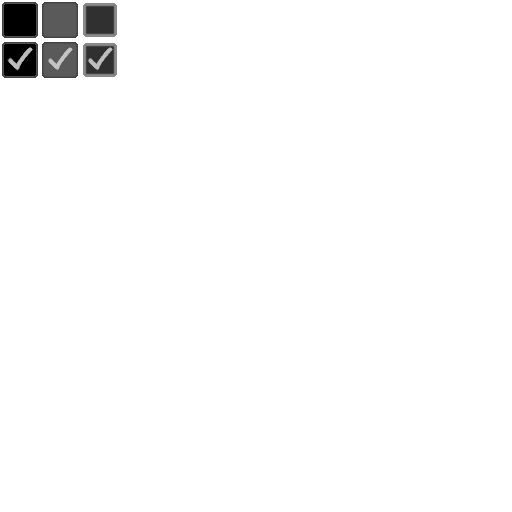
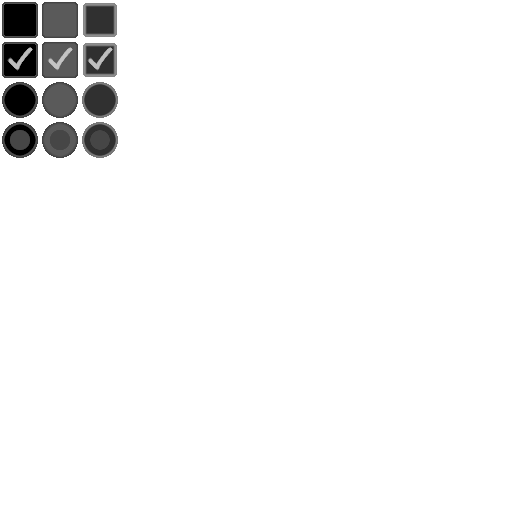
Add Radio CheckBoxBasic Skin

Changed region(s): [[0.0, 0.1562, 0.25, 0.3125]]

diff --git a/MiniatureTactics/src/game/scene/menu/SceneOptionsMenu.cpp b/MiniatureTactics/src/game/scene/menu/SceneOptionsMenu.cpp
@@ -81,7 +81,8 @@ namespace MTGame
 		scrollContainer->centerAlignSelf(5.0, 0.0);
 
 		const auto checkboxYOffset = 10.0;
-		fullscreenCheckbox = std::make_shared<CheckBoxBasic>();
+		const auto checkboxYGroupOffset = 20.0;
+		fullscreenCheckbox = std::make_shared<CheckBoxBasic>(GuiButton::RadioBoxBasic);
 		fullscreenCheckbox->setText("Fullscreen");
 		fullscreenCheckbox->toRightOf(scrollContainer, 5.0, -scrollContainer->getHalfHeight() + fullscreenCheckbox->getHalfHeight() + 5.0);
 		fullscreenCheckbox->setChecked(config.mode == MT::ScreenModes::Fullscreen);
@@ -89,7 +90,7 @@ namespace MTGame
 		fullscreenCheckbox->clickListener = weak_from_this();
 		add(fullscreenCheckbox);
 
-		fullscreenDesktopCheckbox = std::make_shared<CheckBoxBasic>();
+		fullscreenDesktopCheckbox = std::make_shared<CheckBoxBasic>(GuiButton::RadioBoxBasic);
 		fullscreenDesktopCheckbox->setText("Fullscreen Windowed");
 		fullscreenDesktopCheckbox->toBottomOf(fullscreenCheckbox, 0.0, checkboxYOffset);
 		fullscreenDesktopCheckbox->setChecked(config.mode == MT::ScreenModes::FullscreenDesktop);
@@ -97,7 +98,7 @@ namespace MTGame
 		fullscreenDesktopCheckbox->clickListener = weak_from_this();
 		add(fullscreenDesktopCheckbox);
 
-		windowedCheckbox = std::make_shared<CheckBoxBasic>();
+		windowedCheckbox = std::make_shared<CheckBoxBasic>(GuiButton::RadioBoxBasic);
 		windowedCheckbox->setText("Window");
 		windowedCheckbox->toBottomOf(fullscreenDesktopCheckbox, 0.0, checkboxYOffset);
 		windowedCheckbox->setChecked(config.mode == MT::ScreenModes::Windowed);
@@ -105,15 +106,15 @@ namespace MTGame
 		windowedCheckbox->clickListener = weak_from_this();
 		add(windowedCheckbox);
 
-		msaaOffCheckbox = std::make_shared<CheckBoxBasic>();
+		msaaOffCheckbox = std::make_shared<CheckBoxBasic>(GuiButton::RadioBoxBasic);
 		msaaOffCheckbox->setText("MSAA Off");
-		msaaOffCheckbox->toBottomOf(windowedCheckbox, 0.0, checkboxYOffset);
+		msaaOffCheckbox->toBottomOf(windowedCheckbox, 0.0, checkboxYOffset + checkboxYGroupOffset);
 		msaaOffCheckbox->setChecked(config.msaaSamples == 0);
 		msaaOffCheckbox->setEnabled(config.msaaSamples == 0);
 		msaaOffCheckbox->clickListener = weak_from_this();
 		add(msaaOffCheckbox);
 
-		msaa2xCheckbox = std::make_shared<CheckBoxBasic>();
+		msaa2xCheckbox = std::make_shared<CheckBoxBasic>(GuiButton::RadioBoxBasic);
 		msaa2xCheckbox->setText("MSAA 2x");
 		msaa2xCheckbox->toBottomOf(msaaOffCheckbox, 0.0, checkboxYOffset);
 		msaa2xCheckbox->setChecked(config.msaaSamples == 2);
@@ -121,7 +122,7 @@ namespace MTGame
 		msaa2xCheckbox->clickListener = weak_from_this();
 		add(msaa2xCheckbox);
 
-		msaa4xCheckbox = std::make_shared<CheckBoxBasic>();
+		msaa4xCheckbox = std::make_shared<CheckBoxBasic>(GuiButton::RadioBoxBasic);
 		msaa4xCheckbox->setText("MSAA 4x");
 		msaa4xCheckbox->toBottomOf(msaa2xCheckbox, 0.0, checkboxYOffset);
 		msaa4xCheckbox->setChecked(config.msaaSamples == 4);
@@ -129,7 +130,7 @@ namespace MTGame
 		msaa4xCheckbox->clickListener = weak_from_this();
 		add(msaa4xCheckbox);
 
-		msaa8xCheckbox = std::make_shared<CheckBoxBasic>();
+		msaa8xCheckbox = std::make_shared<CheckBoxBasic>(GuiButton::RadioBoxBasic);
 		msaa8xCheckbox->setText("MSAA 8x");
 		msaa8xCheckbox->toBottomOf(msaa4xCheckbox, 0.0, checkboxYOffset);
 		msaa8xCheckbox->setChecked(config.msaaSamples == 8);
@@ -139,7 +140,7 @@ namespace MTGame
 
 		openGlCompatibilityModeCheckbox = std::make_shared<CheckBoxBasic>();
 		openGlCompatibilityModeCheckbox->setText("OpenGL Compatibility Mode");
-		openGlCompatibilityModeCheckbox->toBottomOf(msaa8xCheckbox, 0.0, checkboxYOffset);
+		openGlCompatibilityModeCheckbox->toBottomOf(msaa8xCheckbox, 0.0, checkboxYOffset + checkboxYGroupOffset);
 		openGlCompatibilityModeCheckbox->setChecked(config.openGLCompatibilityMode);
 		openGlCompatibilityModeCheckbox->clickListener = weak_from_this();
 		add(openGlCompatibilityModeCheckbox);

diff --git a/MiniatureTactics/src/game/gui/button/CheckBoxBasic.cpp b/MiniatureTactics/src/game/gui/button/CheckBoxBasic.cpp
@@ -6,16 +6,32 @@ namespace
 	const auto checkBoxBasicId = "check-box-basic";
 	const auto isCheckedParamName = "check-box-basic-is-checked";
 	const auto isLockedParamName = "check-box-is-locked";
+	const std::vector<std::string> states = {
+		"default",
+		"hover",
+		"pressed",
+		"default-checked",
+		"hover-checked",
+		"pressed-checked",
+	};
+	const std::vector<std::string> skins = {
+		"checkbox",
+		"radio"
+	};
+	const auto checkboxTexturePath = "res/game/img/ui/button/checkbox_basic.png";
 }
 
 namespace MTGame
 {
 	void CheckBoxBasic::loadResources(std::shared_ptr<MT::SystemModuleBundle> bundle)
 	{
-		bundle->texture->loadTexture("res/game/img/ui/button/checkbox_basic.png", checkBoxBasicId);
+		bundle->texture->loadTexture(checkboxTexturePath, checkBoxBasicId);
 
 		auto animationSet = std::make_shared<MT::AnimationSet>();
 		{
+			auto row = 0;
+			auto col = 0;
+
 			MT::RectI frameSize = {
 				0,
 				0,
@@ -23,51 +39,49 @@ namespace MTGame
 				40
 			};
 
+			for (const auto skin : skins)
 			{
+				for (const auto state : states)
+				{
+					auto anim = animationSet->startNewAnimation(skin + state);
+					anim->addGeneralFrames((col++) * frameSize.w, row * frameSize.h, frameSize.w, frameSize.h, 1);
 
-				auto anim = animationSet->startNewAnimation("default");
-				anim->addGeneralFrames(0, 0, frameSize.w, frameSize.h, 1);
-			}
-
-			{
-				auto anim = animationSet->startNewAnimation("hover");
-				anim->addGeneralFrames(frameSize.w * 1, 0, frameSize.w, frameSize.h, 1);
-			}
-
-			{
-				auto anim = animationSet->startNewAnimation("pressed");
-				anim->addGeneralFrames(frameSize.w * 2, 0, frameSize.w, frameSize.h, 1);
-			}
-
-			{
-				auto anim = animationSet->startNewAnimation("default-checked");
-				anim->addGeneralFrames(0, frameSize.h, frameSize.w, frameSize.h, 1);
-			}
-
-			{
-				auto anim = animationSet->startNewAnimation("hover-checked");
-				anim->addGeneralFrames(frameSize.w * 1, frameSize.h, frameSize.w, frameSize.h, 1);
-			}
-
-			{
-				auto anim = animationSet->startNewAnimation("pressed-checked");
-				anim->addGeneralFrames(frameSize.w * 2, frameSize.h, frameSize.w, frameSize.h, 1);
+					if (col == 3)
+					{
+						row++;
+						col = 0;
+					}
+				}
 			}
 		}
-		bundle->animation->addAnimationSet(animationSet, checkBoxBasicId);
 
+		bundle->animation->addAnimationSet(animationSet, checkBoxBasicId);
 	}
 
-	CheckBoxBasic::CheckBoxBasic() : BaseGui(GuiButton::CheckBoxBasic)
+	CheckBoxBasic::CheckBoxBasic(GuiButton configuration) : BaseGui(configuration)
 	{
+		switch (configuration)
+		{
+		case GuiButton::RadioBoxBasic:
+			setAnimationPrefix(skins[1]);
+			break;
+
+		default:
+		case GuiButton::CheckBoxBasic:
+			setAnimationPrefix(skins[0]);
+			break;
+		}
+
 		setTexture(checkBoxBasicId);
 		setAnimationSet(checkBoxBasicId);
 		setDefaultAnimationName("default");
 
-		setSize(33.0, 33.0);
+		setSize(40.0, 40.0);
 
 		enableSerialization<CheckBoxBasic>();
 	}
+
+	CheckBoxBasic::CheckBoxBasic() : CheckBoxBasic(GuiButton::CheckBoxBasic) {}
 
 	void CheckBoxBasic::setText(std::string text)
 	{

diff --git a/MiniatureTactics/src/core/ui/renderable/element/Animated.cpp b/MiniatureTactics/src/core/ui/renderable/element/Animated.cpp
@@ -89,7 +89,7 @@ namespace MT
 		if (animationSet == nullptr) return;
 
 		currentAnimationName = animationName;
-		currentAnimation = animationSet->getAnimation(animationName);
+		currentAnimation = animationSet->getAnimation(animationPrefix + animationName);
 
 		if (sizeToAnimation && currentAnimation != nullptr)
 		{
@@ -162,6 +162,7 @@ namespace MT
 		frame = client->serializeInt("frame", frame);
 		fpsOffset = client->serializeInt("fpsOffset", fpsOffset);
 		sizeToAnimation = client->serializeBool("sizeToAnimation", sizeToAnimation);
+		animationPrefix = client->serializeString("animationPrefix", animationPrefix);
 
 		return Element::doSerialize(hint);
 	}
@@ -174,5 +175,10 @@ namespace MT
 	void Animated::setDefaultAnimationName(std::string name)
 	{
 		defaultAnimationName = name;
+	}
+
+	void Animated::setAnimationPrefix(std::string prefix)
+	{
+		animationPrefix = prefix;
 	}
 }

diff --git a/MiniatureTactics/src/core/ui/renderable/element/Animated.h b/MiniatureTactics/src/core/ui/renderable/element/Animated.h
@@ -18,6 +18,7 @@ namespace MT
 		bool playing = false, paused = false;
 		int frame, fpsOffset;
 		std::shared_ptr<Timer> frameTimer;
+		std::string animationPrefix;
 		void updateFrame(double frameTime);
 
 	protected:
@@ -39,6 +40,7 @@ namespace MT
 		std::string getCurrentAnimationName();
 		void setFpsOffset(int fpsOffset);
 		void setDefaultAnimationName(std::string name);
+		void setAnimationPrefix(std::string prefix);
 
 		std::shared_ptr<Rect> getTextureClipRect();
 		virtual void enterFrame(double frameTime);

diff --git a/MiniatureTactics/src/game/gui/Guis.h b/MiniatureTactics/src/game/gui/Guis.h
@@ -9,7 +9,8 @@ namespace MTGame
 	enum class GuiButton
 	{
 		ButtonBasic,
-		CheckBoxBasic
+		CheckBoxBasic,
+		RadioBoxBasic
 	};
 
 	enum class GuiCamera
@@ -40,6 +41,7 @@ namespace MTGame
 		const std::map<GuiButton, std::string> buttons{
 			{ GuiButton::ButtonBasic, "button-basic" },
 			{ GuiButton::CheckBoxBasic, "check-box-basic" },
+			{ GuiButton::RadioBoxBasic, "radio-box-basic" },
 		};
 
 		const std::map<GuiCamera, std::string> cameras{

diff --git a/MiniatureTactics/src/game/gui/button/CheckBoxBasic.h b/MiniatureTactics/src/game/gui/button/CheckBoxBasic.h
@@ -18,6 +18,7 @@ namespace MTGame
 
 		static void loadResources(std::shared_ptr<MT::SystemModuleBundle> bundle);
 		CheckBoxBasic();
+		CheckBoxBasic(GuiButton configuration);
 
 		void onCreateChildren();
 		void onChildrenHydrated();
